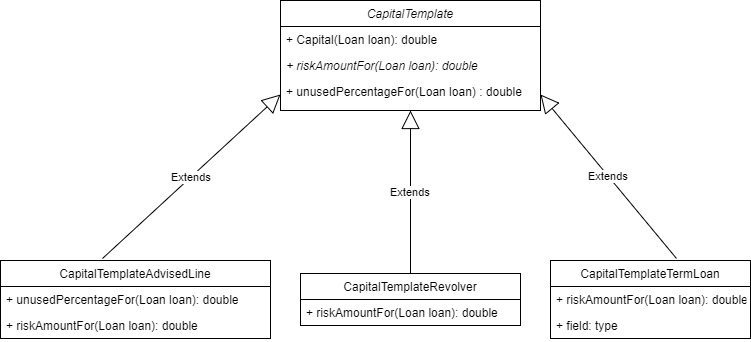
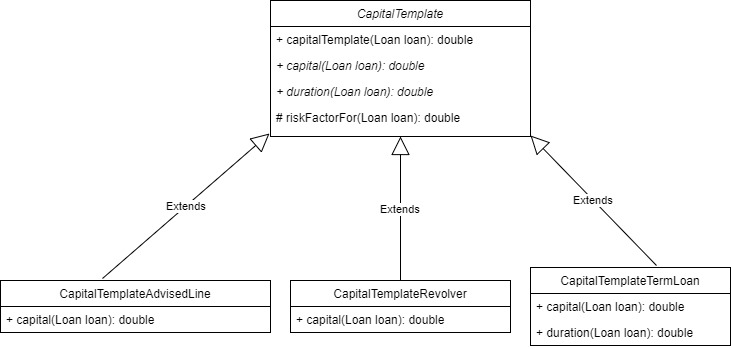
Estágio 2

diff --git a/Estágio 2/Exercício 9 - Template/Parte 2/CapitalTemplate.java b/Estágio 2/Exercício 9 - Template/Parte 2/CapitalTemplate.java
@@ -1,16 +1,24 @@
 
 public abstract class CapitalTemplate {
 	
-	public double capital(Loan loan) {
+	public double capitalTemplate(Loan loan) {
 		
-		return riskAmountFor(loan)* duration(loan)*riskFactorFor(loan);
+		return loan.duration()*loan.riskFacrotyFor();
 	}
 	
-	public abstract double riskAmountFor(Loan loan);
+	public abstract double capital(Loan loan);
 	
-	public double unusedPercentageFor(Loan loan) {
-		return capital(loan);
+	public double duration(Loan loan) {
+		
+		return loan.duration();
 	}
+	
+	protected double riskFactorFor(Loan loan) 
+	{
+		return loan.riskFacrotyFor();
+	}
+	
+
 	
 	
 

diff --git a/Estágio 2/Exercício 9 - Template/Parte 2/CapitalTemplateRevolver.java b/Estágio 2/Exercício 9 - Template/Parte 2/CapitalTemplateRevolver.java
@@ -2,9 +2,10 @@
 public class CapitalTemplateRevolver extends CapitalTemplate {
 
 	@Override
-	public double riskAmountFor(Loan loan) {
-		return capital+(loan.unusedRiskAmount()*unusedRiskFactor(loan)*duration(loan))
-	}
+	public double capital(Loan loan) {
 	
+		return capitalTemplate(loan)*loan.outStandingRiskAmount()+
+				(loan.unusedRiskAmount()*loan.duration()*loan.unusedRiskFactorFor());
+	}
 
 }

diff --git a/Estágio 2/Exercício 9 - Template/Parte 2/CapitalTemplateAdvisedLine.java b/Estágio 2/Exercício 9 - Template/Parte 2/CapitalTemplateAdvisedLine.java
@@ -1,13 +1,14 @@
 
 public class CapitalTemplateAdvisedLine extends CapitalTemplate {
-	
-	public double unusedPercentageFor(Loan loan) {
-		return loan.getUnusedPercentage();
-	}
 
 	@Override
-	public double riskAmountFor(Loan loan) {
-		return capital*loan.getCommitment;
+	public double capital(Loan loan) {
+		
+		return capitalTemplate(loan)*loan.getCommiment();
 	}
+	
+	
+
+
 
 }

diff --git a/Estágio 2/Exercício 9 - Template/Parte 2/CapitalTemplateTermLoan.java b/Estágio 2/Exercício 9 - Template/Parte 2/CapitalTemplateTermLoan.java
@@ -1,11 +1,16 @@
 
 public class CapitalTemplateTermLoan extends CapitalTemplate {	
 	
+
 	@Override
-	public double riskAmountFor(Loan loan) {
-		return capital*loan.getCommiment();
+	public double capital(Loan loan) {
+		return capitalTemplate(loan)*loan.getCommiment();
 	}
 	
+	public double duration(Loan loan) {
+		
+		return loan.duration();
+	}
 	
 
 }
